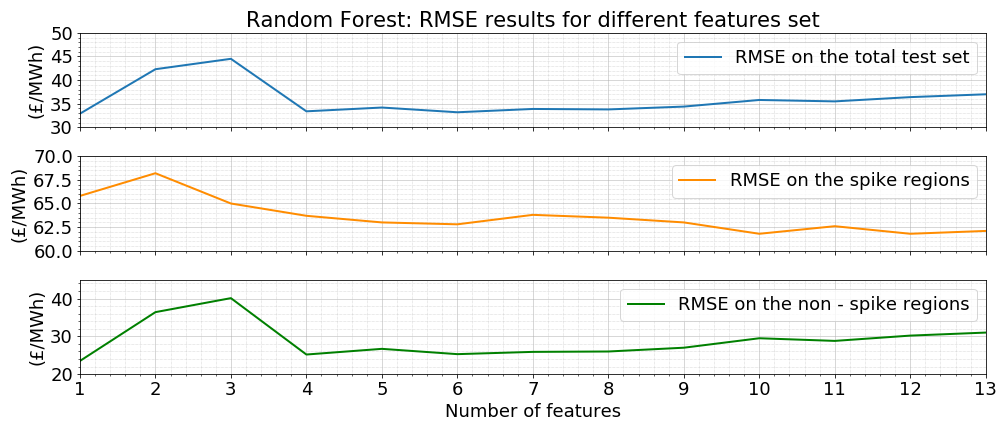
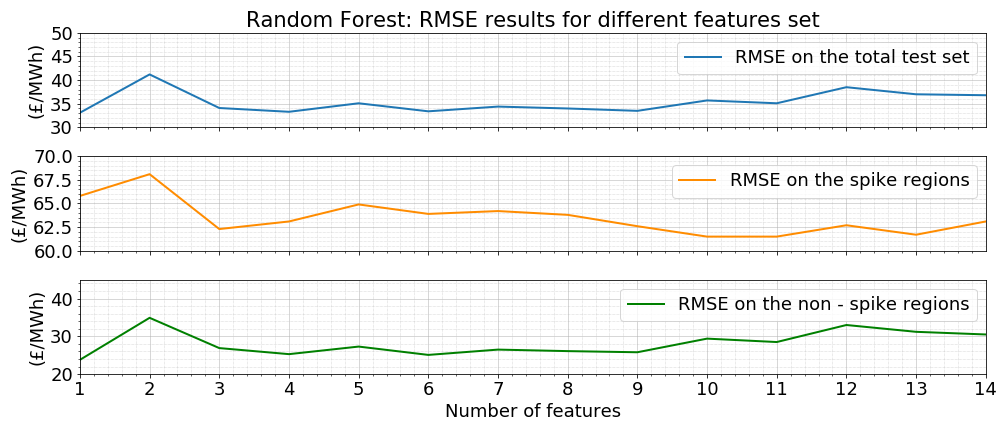
Same changes as previously for Linear Regression, now for Random Forest

diff --git a/Random_Forest_Final/Plot_Random_Forest_Results_FS.py b/Random_Forest_Final/Plot_Random_Forest_Results_FS.py
@@ -27,8 +27,7 @@ fontsize = 18
 plt.figure(figsize = (14,6))
 
 plt.subplot(3, 1, 1)
-plt.plot(np.arange(1, (14)), rmse_gen, label = 'RMSE on the total test set', linewidth = 2)
-plt.xlim(0.5, 13.5)
+plt.plot(np.arange(1, (15)), rmse_gen, label = 'RMSE on the total test set', linewidth = 2)
 plt.minorticks_on()
 plt.grid(which='major', linestyle='-', linewidth='0.5')
 plt.grid(which='minor', linestyle=':', linewidth='0.5')
@@ -36,15 +35,14 @@ plt.grid(which='minor', linestyle=':', linewidth='0.5')
 plt.ylabel('(£/MWh)', fontsize = fontsize)
 plt.xticks([1,2,3,4,5,6,7,8,9,10,11,12,13], [], fontsize = fontsize)
 plt.ylim(30, 50)
-plt.xlim(1,13)
+plt.xlim(1,14)
 plt.yticks(fontsize = fontsize)
 plt.title('Random Forest: RMSE results for different features set', fontsize = fontsize + 3)
 plt.legend(loc = 'upper right', fontsize = fontsize)
 
 
 plt.subplot(3, 1, 2)
-plt.plot(np.arange(1, (14)), rmse_spi, label = 'RMSE on the spike regions', linewidth = 2, color = 'darkorange')
-plt.xlim(0.5, 13.5)
+plt.plot(np.arange(1, (15)), rmse_spi, label = 'RMSE on the spike regions', linewidth = 2, color = 'darkorange')
 plt.minorticks_on()
 plt.grid(which='major', linestyle='-', linewidth='0.5')
 plt.grid(which='minor', linestyle=':', linewidth='0.5')
@@ -52,24 +50,23 @@ plt.grid(which='minor', linestyle=':', linewidth='0.5')
 plt.ylabel('(£/MWh)', fontsize = fontsize)
 plt.xticks([1,2,3,4,5,6,7,8,9,10,11,12,13], [], fontsize = fontsize)
 plt.ylim(60.0, 70)
-plt.xlim(1,13)
+plt.xlim(1,14)
 plt.yticks(fontsize = fontsize)
 #plt.title('Feature Selection results for Spike regions', fontsize = fontsize + 2)
 plt.legend(loc = 'upper right', fontsize = fontsize)
 
 
 plt.subplot(3, 1, 3)
-plt.plot(np.arange(1, (14)), rmse_nor, label = 'RMSE on the non - spike regions', linewidth = 2, color = 'green')
-plt.xlim(0.5, 13.5)
+plt.plot(np.arange(1, (15)), rmse_nor, label = 'RMSE on the non - spike regions', linewidth = 2, color = 'green')
 plt.minorticks_on()
 plt.grid(which='major', linestyle='-', linewidth='0.5')
 plt.grid(which='minor', linestyle=':', linewidth='0.5')
 plt.xlabel('Number of features', fontsize = fontsize)
 plt.ylabel('(£/MWh)', fontsize = fontsize)
-plt.xticks([1,2,3,4,5,6,7,8,9,10,11,12,13], fontsize = fontsize)
+plt.xticks([1,2,3,4,5,6,7,8,9,10,11,12,13, 14], fontsize = fontsize)
 plt.yticks(fontsize = fontsize)
 plt.ylim(20, 45)
-plt.xlim(1,13)
+plt.xlim(1,14)
 #plt.title('Feature Selection results for Normal Regions', fontsize = fontsize + 2)
 plt.legend(loc = 'upper right', fontsize = fontsize)
 plt.tight_layout()

diff --git a/Random_Forest_Final/Regression_Random_Forest_FS.py b/Random_Forest_Final/Regression_Random_Forest_FS.py
@@ -70,7 +70,7 @@ f_chosen_ = []
 # Feature selection loop for different number of features to select
 # =============================================================================
 
-for i in range(1, len(X.columns)):
+for i in range(1, len(X.columns) + 1):
     
     # create feature selector
     selector = RFE(regressor, n_features_to_select = i, step = 1)
@@ -84,7 +84,7 @@ for i in range(1, len(X.columns)):
     f_chosen = f_chosen[f_chosen != '']
     f_chosen_.append(f_chosen)
 
-results_fs = pd.DataFrame({'n_features_to_select': (list(range(1, 14))),
+results_fs = pd.DataFrame({'n_features_to_select': (list(range(1, 15))),
                           
                            'features_chosen': f_chosen_})
 
